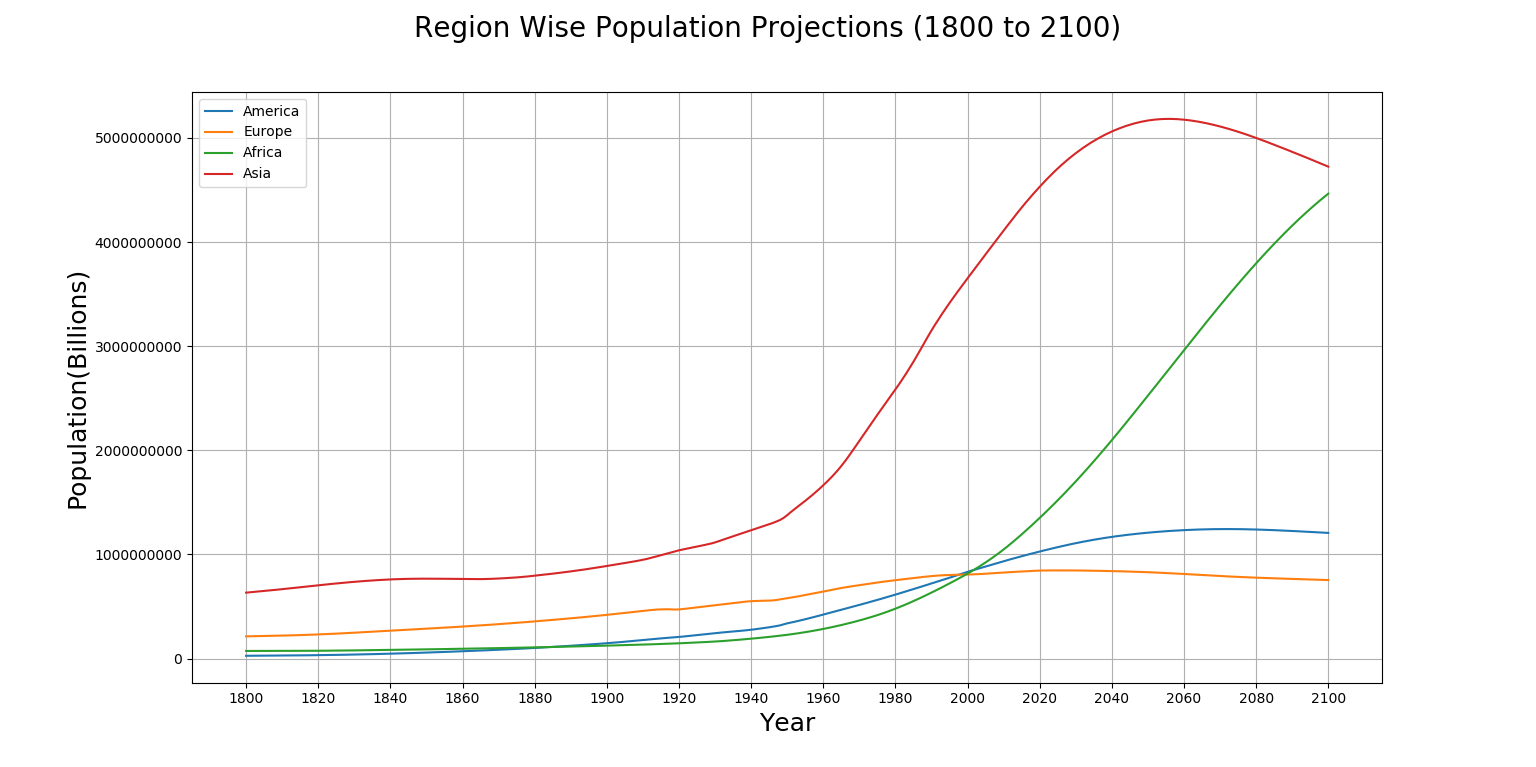
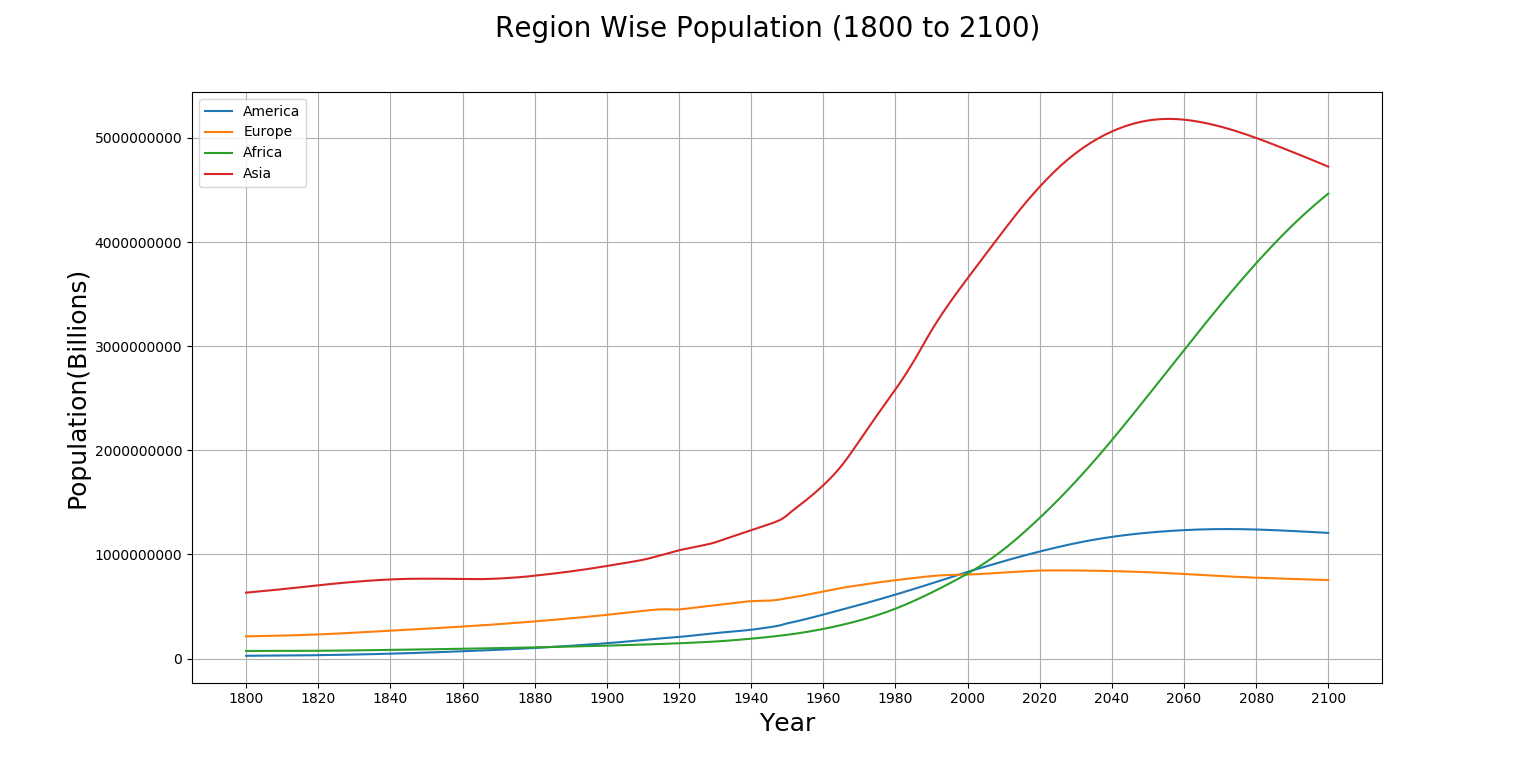
added readme and more optimizations

Changed region(s): [[0.25, 0.0, 0.7188, 0.06]]

diff --git a/regionwise_pop_trend_upto2100.py b/regionwise_pop_trend_upto2100.py
@@ -13,7 +13,7 @@ df1.columns = ['America', 'Europe', 'Africa', 'Asia']
 df1.plot.line()
 li= list(df1.index.values)
 
-plt.suptitle('Region Wise Population Projections (1800 to 2100)', fontsize=20)
+plt.suptitle('Region Wise Population (1800 to 2100)', fontsize=20)
 plt.xlabel('Year', fontsize=18)
 plt.ylabel('Population(Billions)', fontsize=18)
 plt.ticklabel_format(useOffset=False, style='plain')

diff --git a/total_pop_trend_upto2100.py b/total_pop_trend_upto2100.py
@@ -11,7 +11,7 @@ df2=df1.sum()
 df2.plot()
 plt.ticklabel_format(useOffset=False, style='plain')
 
-plt.suptitle('World Population Projections (1800 to 2100)', fontsize=20)
+plt.suptitle('Global Population(1800 to 2100)', fontsize=20)
 plt.xlabel('Year', fontsize=18)
 plt.ylabel('Population(Billions)', fontsize=18)
 plt.xticks(range(1800,2120,20))

diff --git a/README.md b/README.md
@@ -1,0 +1,12 @@
+The aim is to understand the Global Population Trends from the year 1800 to 2100.
+
+Python3 is used in this project. This helps me practice modules like matplotlib and pandas.
+
+Note:
+The data file (xlsx) has been retrieved from gapminder.org
+The data set is free to use. 
+
+Work List:
+1)Total Population Trend (1800 to 2100)
+2)Region Wise Population Trend (1800 to 2100)
+
